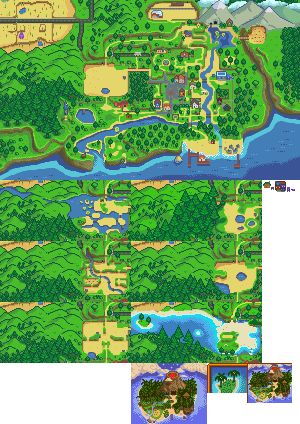
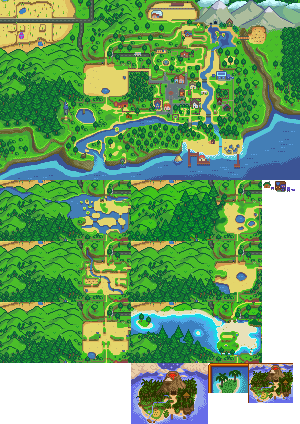
only use default map path

Changed region(s): [[0.69, 0.8585, 0.99, 1.0]]

diff --git a/NPCMapLocations/data/ModConfig.cs b/NPCMapLocations/data/ModConfig.cs
@@ -37,7 +37,7 @@ namespace NPCMapLocations
     public HashSet<string> MinimapExclusions { get; set; } = new HashSet<string>() { };
 
     public bool UseSeasonalMaps { get; set; } = true;
-    public bool UseDetailedIsland { get; set; } = true;
+    public bool UseDetailedIsland { get; set; } = false;
     public bool ShowChildren { get; set; } = false;
     public bool ShowHorse { get; set; } = true;
     public HashSet<string> NpcExclusions { get; set; } = new HashSet<string>() { };

diff --git a/NPCMapLocations/data/ModCustomizations.cs b/NPCMapLocations/data/ModCustomizations.cs
@@ -24,10 +24,10 @@ namespace NPCMapLocations
 
     public ModCustomizations()
     {
-      MapsPath = GetCustomMapFolderName();
-      if (MapsPath != null)
-        MapsPath = Path.Combine(MapsRootPath, MapsPath);
-      else
+      //MapsPath = GetCustomMapFolderName();
+      //if (MapsPath != null)
+      //  MapsPath = Path.Combine(MapsRootPath, MapsPath);
+      //else
         MapsPath = Path.Combine(MapsRootPath, "_default");
 
       Names = new Dictionary<string, string>();

diff --git a/NPCMapLocations/ModMain.cs b/NPCMapLocations/ModMain.cs
@@ -90,7 +90,7 @@ namespace NPCMapLocations
           : Helper.Content.Load<T>(Path.Combine(Customizations.MapsRootPath, "_default", filename));
 
         if (useRecolor)
-          Monitor.Log($"Using recolored map {Path.Combine(Customizations.MapsPath, filename)}.", LogLevel.Debug);
+          Monitor.Log($"Using {Path.Combine(Customizations.MapsPath, filename)}.", LogLevel.Debug);
 
         return map;
       }
